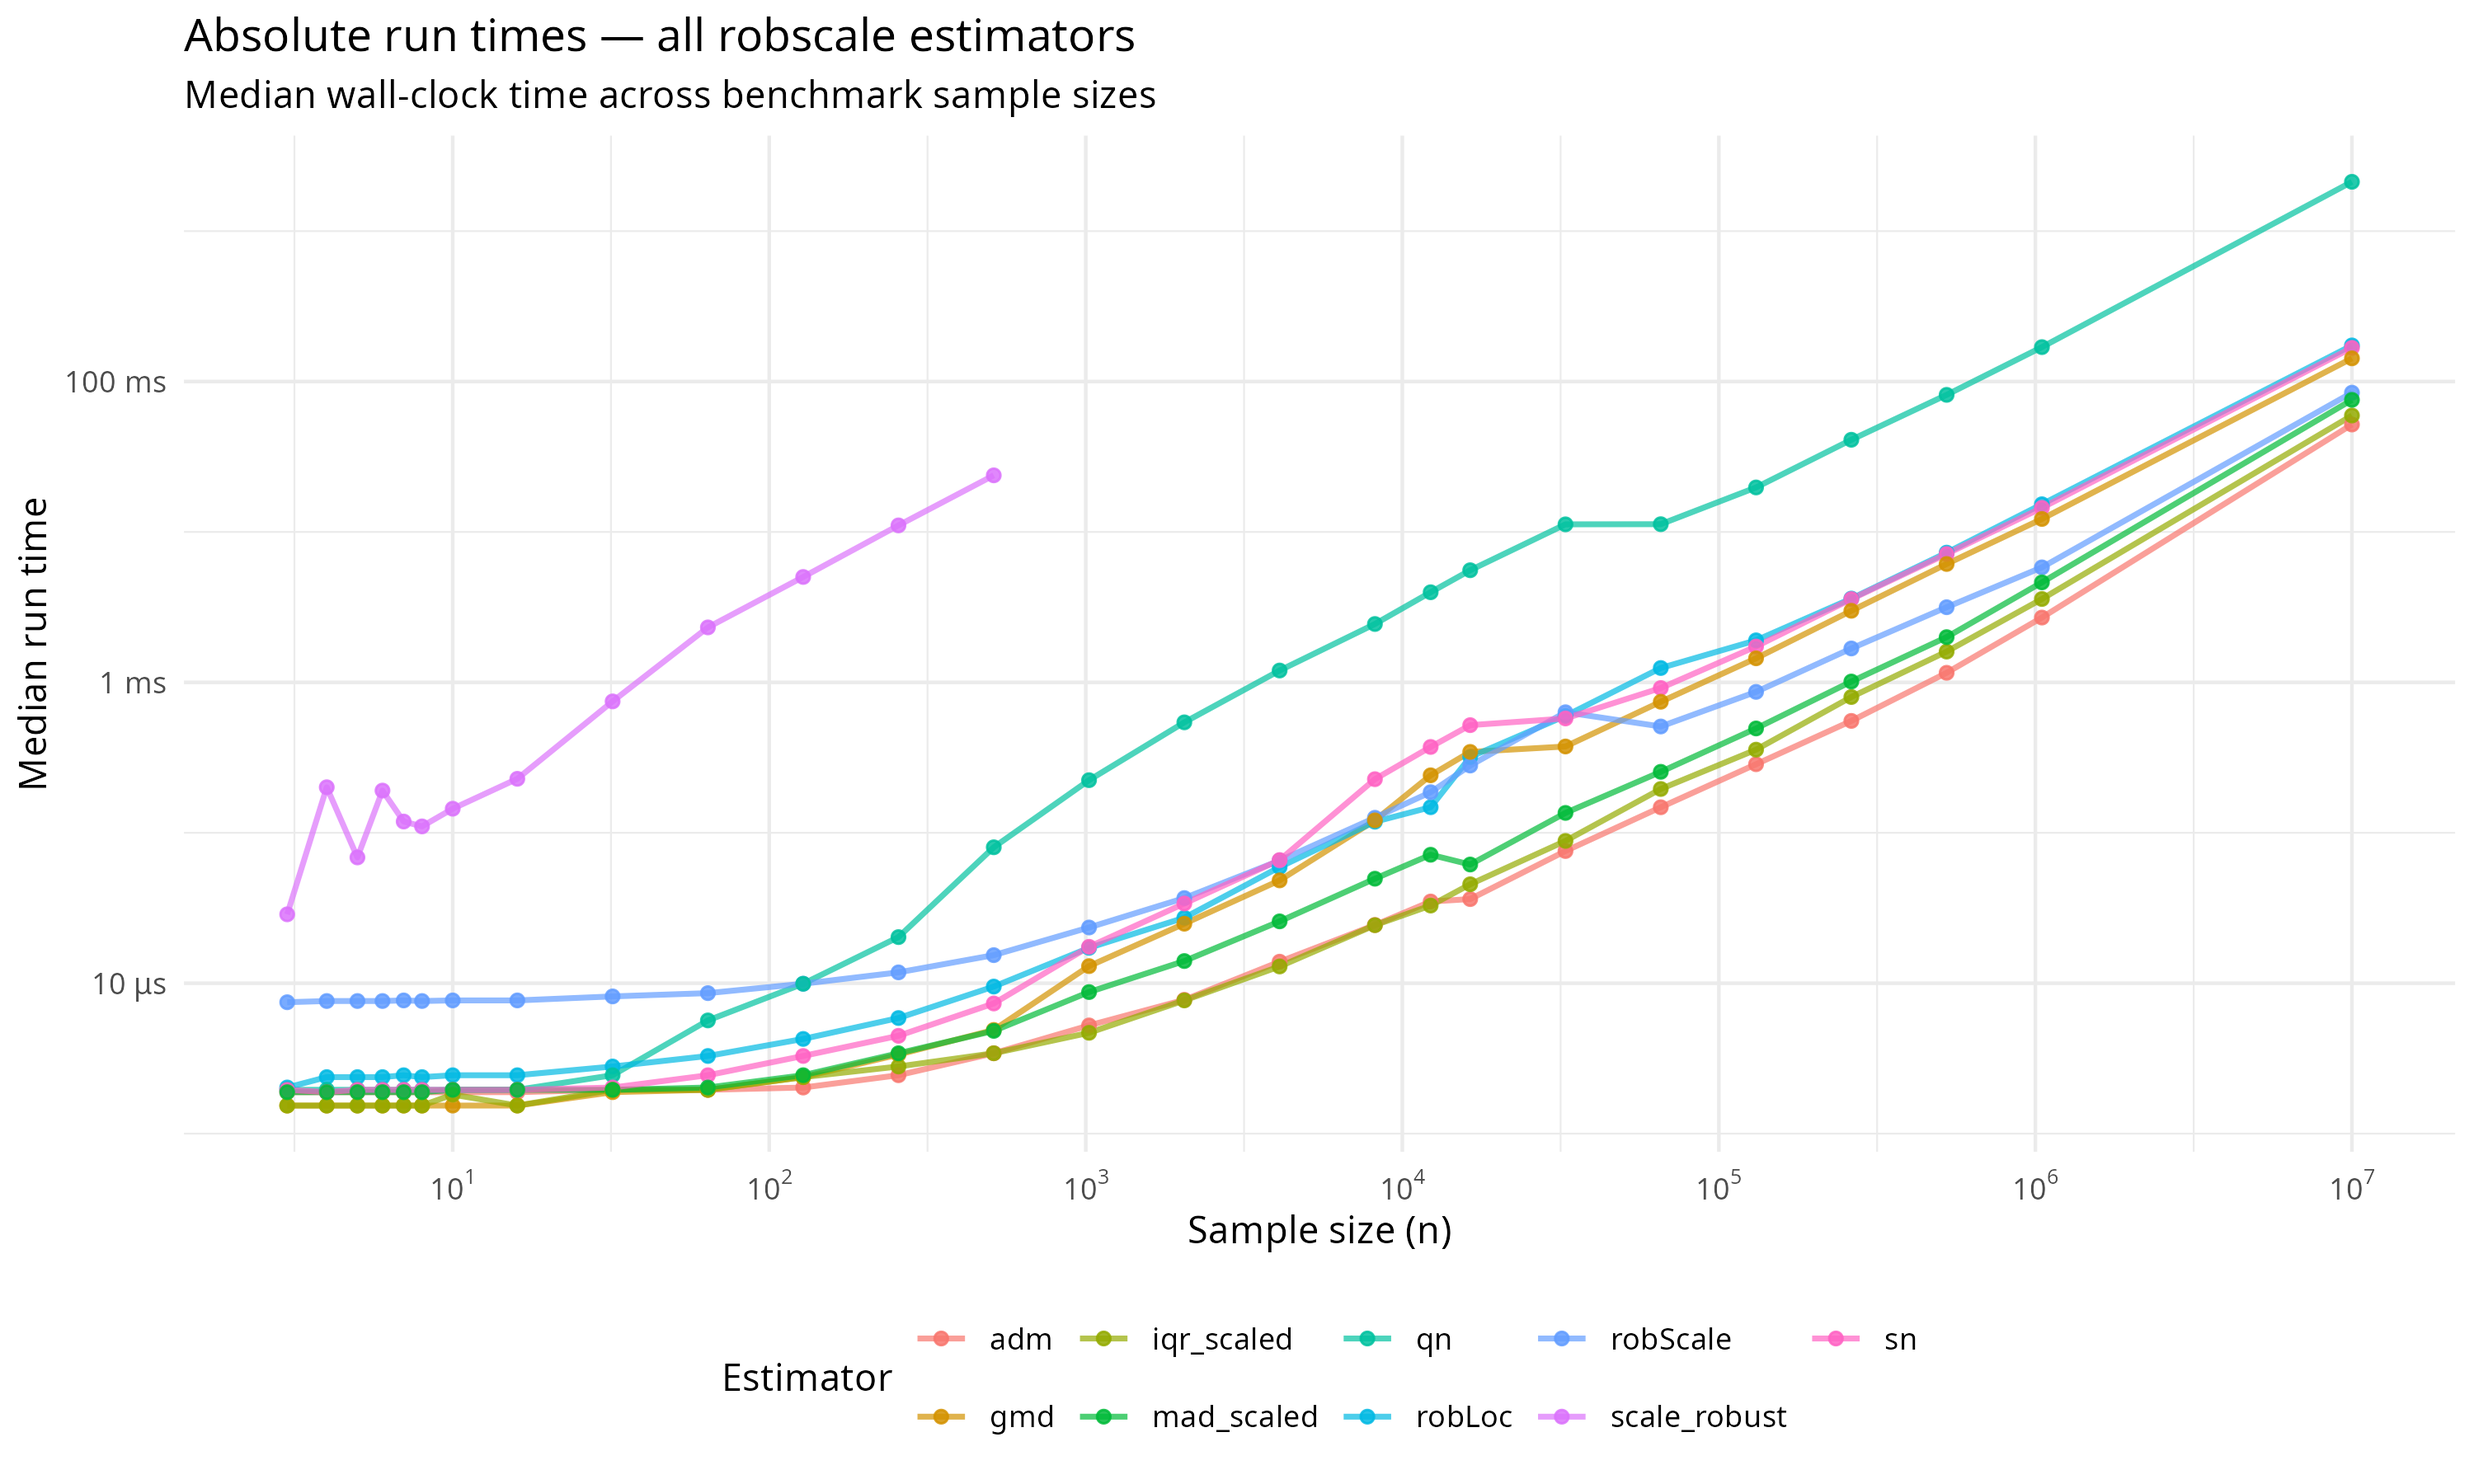
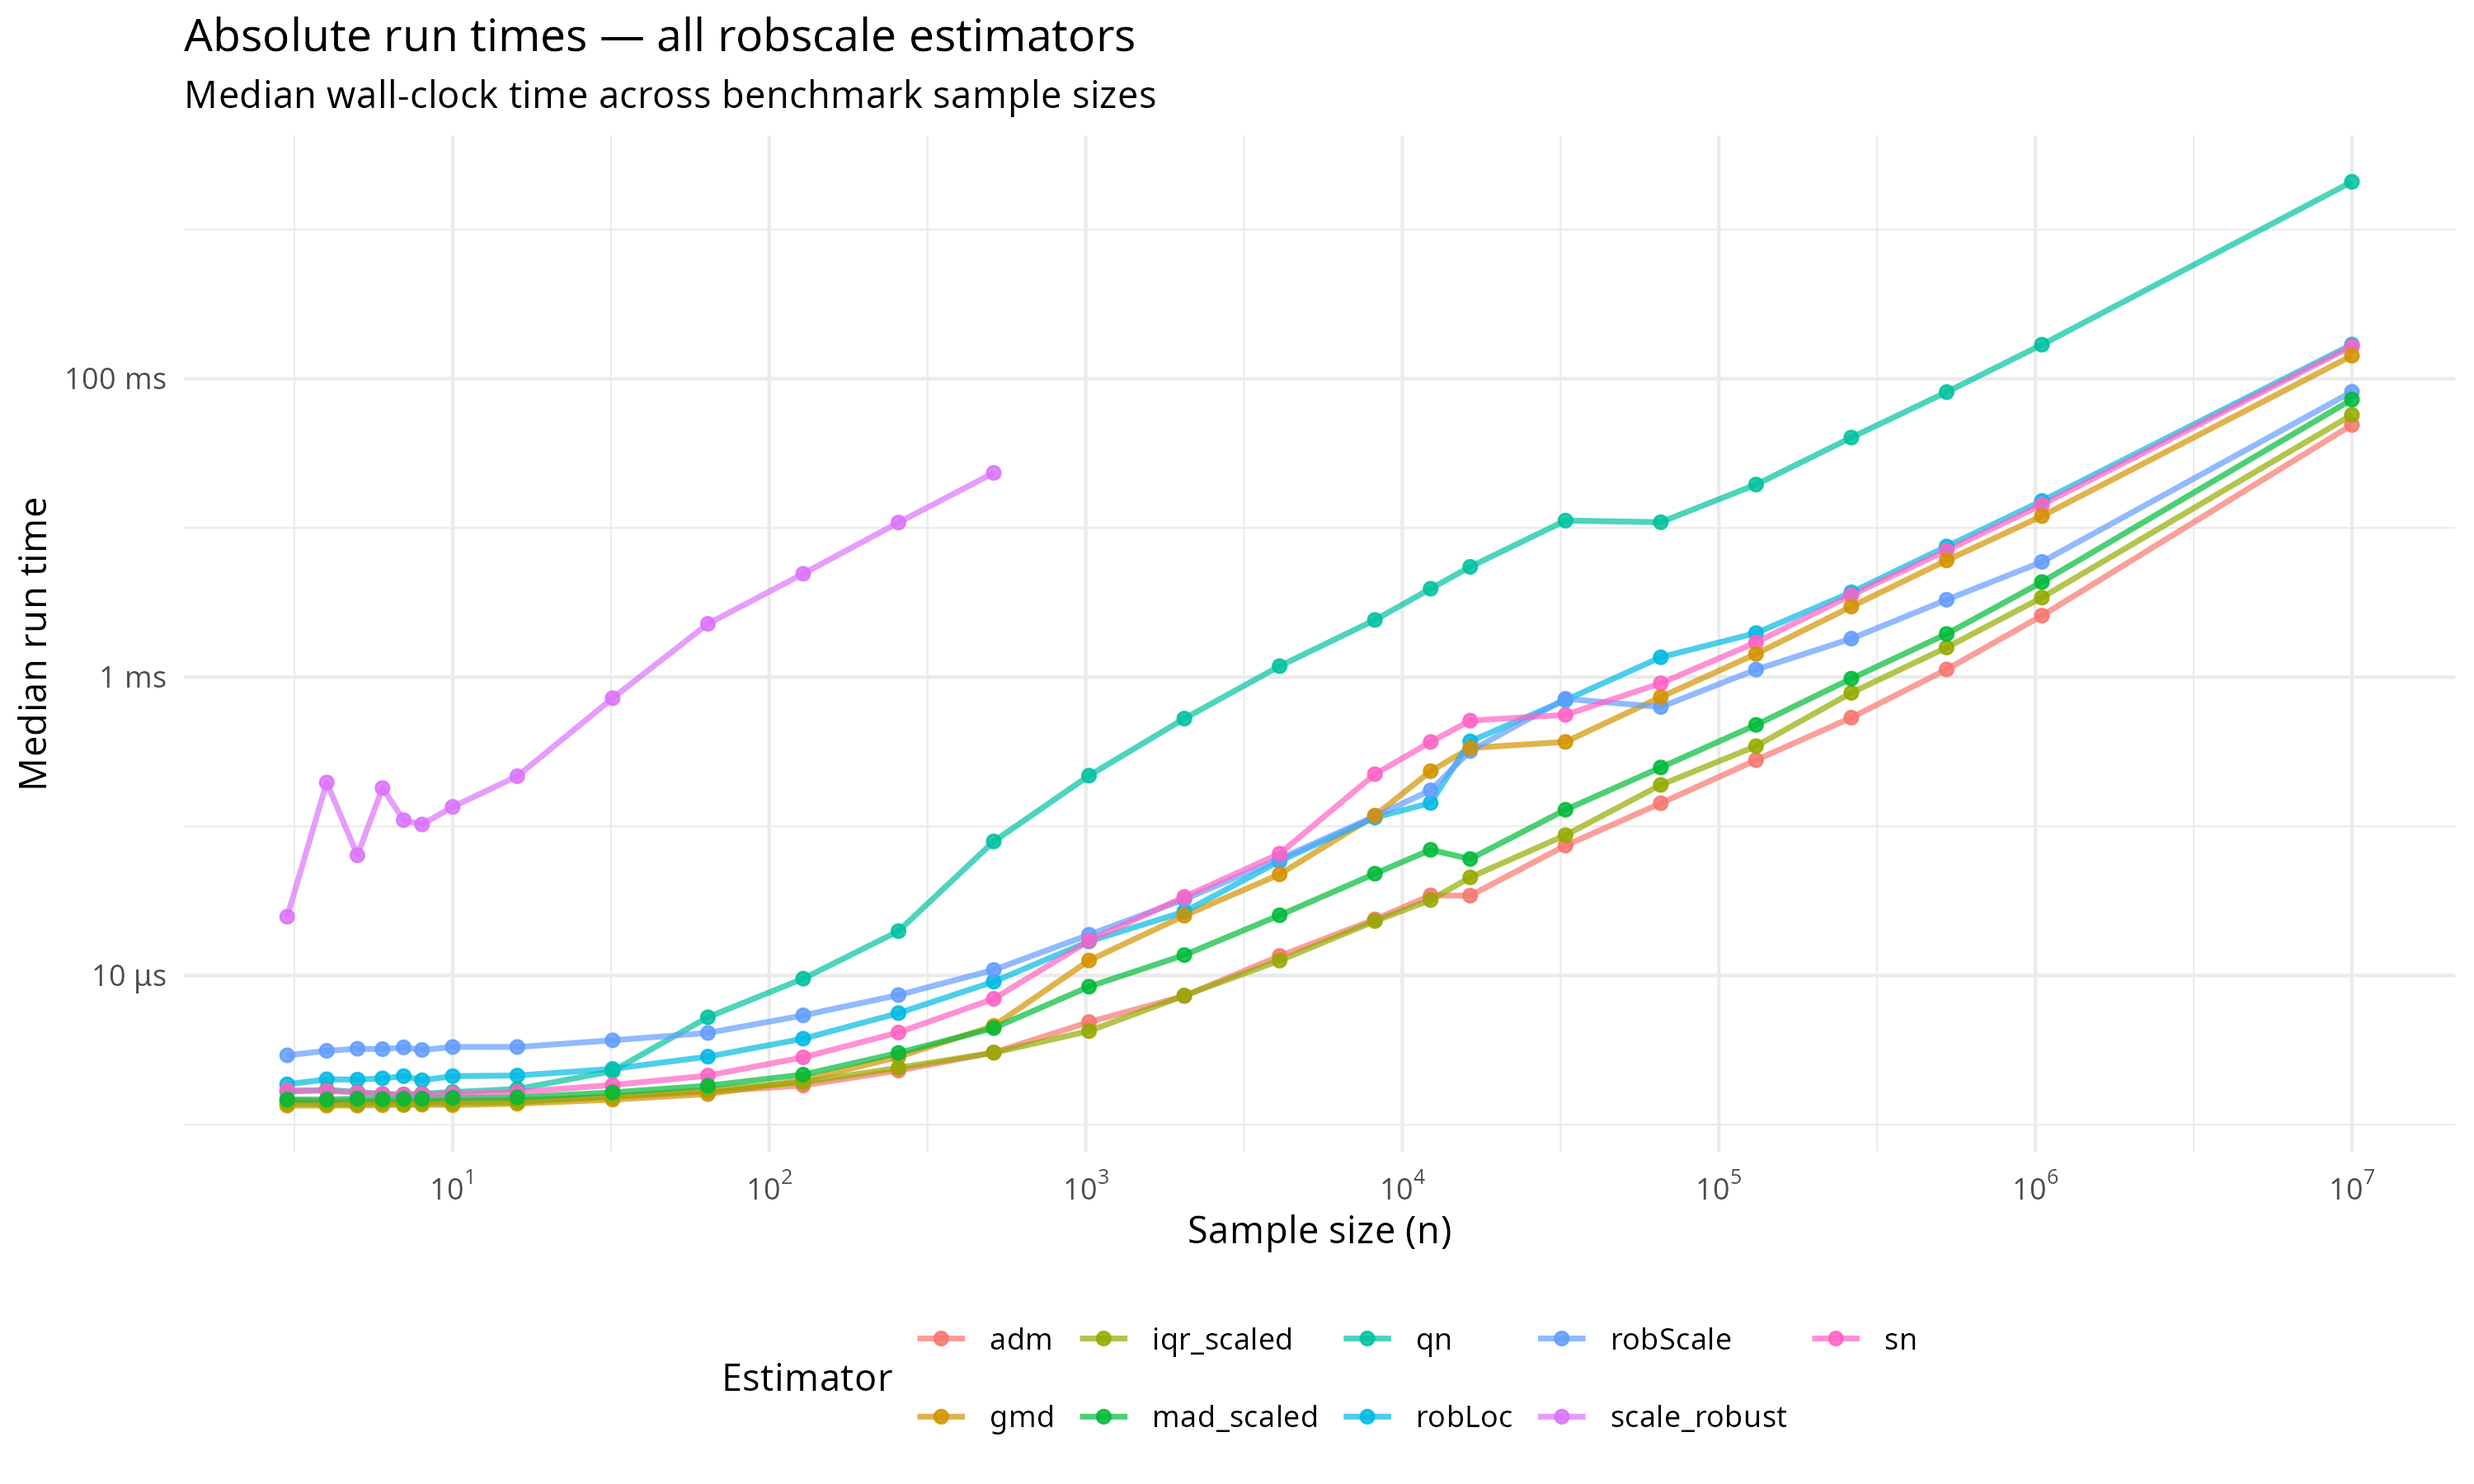
docs: render README with fresh benchmarks reflecting match.arg fix
Small-n speedups now 6.1x (was 5.0-5.4x) after eliminating 4.75µs
match.arg overhead. qn n=8: 1.6µs (was 2.0µs). robScale large-n
also improved: 10.9ms (was 11.3ms) at n=65536.

diff --git a/README.md b/README.md
@@ -17,13 +17,13 @@ variance-weighted bootstrap ensemble for small samples ($n < 20$) and
 auto-switches to the GMD for larger ones. `get_consistency_constant()`
 exposes the finite-sample bias-correction factors used throughout.
 
-Against `revss`, `robscale` achieves **1.6–1.9x** speedups for
-`robScale()` and **3.5–4.0x** for `robLoc()` at small $n$, with
-**1.4–7.0x** for `adm()` at $n \ge 128$. Against `robustbase`, `qn` and
-`sn` run at **1.6–5.5x** and **2.0–9.1x** respectively, peaking near
+Against `revss`, `robscale` achieves **3.8–4.5x** speedups for
+`robScale()` and **4.0–4.3x** for `robLoc()` at small $n$, with
+**1.6–7.1x** for `adm()` at $n \ge 128$. Against `robustbase`, `qn` and
+`sn` run at **1.7–6.1x** and **2.1–9.1x** respectively, peaking near
 **9.1x** at $n = 10^7$ as TBB parallelism engages. `gmd`, `iqr_scaled`,
-and `mad_scaled` beat their base R counterparts by **2.7–19.5x**,
-**2.9–33.9x**, and **4.1–20.7x** respectively.
+and `mad_scaled` beat their base R counterparts by **2.8–22.1x**,
+**2.9–37.8x**, and **4.2–26.3x** respectively.
 
 Speed comes from C++17 kernels with platform-specific SIMD
 vectorization, $O(n)$ selection algorithms, stack-allocated memory
@@ -535,14 +535,14 @@ of TBB parallelism at large $n$.
 
 ### M-estimators (`adm`, `robLoc`, `robScale`)
 
-`robScale()` and `robLoc()` reach **1.6–1.9x** and **3.5–4.0x** over
+`robScale()` and `robLoc()` reach **3.8–4.5x** and **4.0–4.3x** over
 `revss` in the small-sample regime ($n \le 20$). Newton–Raphson
 quadratic convergence (~3 iterations vs. 6–8), the fused single-pass
 AVX2 kernel, stack-allocated arenas, and optimal sorting networks for
 $n \le 16$ drive these gains. `adm()` matches `revss` at small $n$ (both
 ~1.5–2.0 µs, dominated by the R→C++ `.Call()` boundary) and leads by
-**1.4–7.0x** at $n \ge 128$ as computation overtakes boundary cost. At
-$n = 16{,}384$, all three NR estimators retain **3.3–5.1x** gains
+**1.6–7.1x** at $n \ge 128$ as computation overtakes boundary cost. At
+$n = 16{,}384$, all three NR estimators retain **2.8–5.3x** gains
 because `revss` interpreter overhead scales with iteration count, not
 just vector length.
 
@@ -554,12 +554,12 @@ Table 3
 
 |      $n$ | `robustbase::Qn` | `robscale::qn` | Speedup  |
 |---------:|:-----------------|:---------------|:---------|
-|        8 | 9.8 µs           | 2.0 µs         | **5.0x** |
-|       16 | 10.6 µs          | 2.0 µs         | **5.4x** |
-|       64 | 14.5 µs          | 5.7 µs         | **2.6x** |
-|     1024 | 451.9 µs         | 223.8 µs       | **2.0x** |
-|    65536 | 45969.5 µs       | 11262.6 µs     | **4.1x** |
-| 10000000 | 10.2 s           | 2.1 s          | **4.8x** |
+|        8 | 9.8 µs           | 1.6 µs         | **6.1x** |
+|       16 | 10.6 µs          | 1.7 µs         | **6.1x** |
+|       64 | 14.5 µs          | 5.3 µs         | **2.8x** |
+|     1024 | 451.9 µs         | 218.6 µs       | **2.1x** |
+|    65536 | 45969.5 µs       | 10924.3 µs     | **4.2x** |
+| 10000000 | 10.2 s           | 2.1 s          | **4.9x** |
 
 </div>
 
@@ -569,19 +569,19 @@ Table 4
 
 |      $n$ | `robustbase::Sn` | `robscale::sn` | Speedup  |
 |---------:|:-----------------|:---------------|:---------|
-|        8 | 4.4 µs           | 2.0 µs         | **2.3x** |
-|       16 | 4.9 µs           | 2.0 µs         | **2.5x** |
-|       64 | 6.1 µs           | 2.4 µs         | **2.5x** |
-|     1024 | 35.7 µs          | 17.5 µs        | **2.0x** |
-|    65536 | 6893.7 µs        | 916.9 µs       | **7.5x** |
-| 10000000 | 1.5 s            | 0.2 s          | **8.9x** |
+|        8 | 4.4 µs           | 1.6 µs         | **2.7x** |
+|       16 | 4.9 µs           | 1.7 µs         | **3.0x** |
+|       64 | 6.1 µs           | 2.1 µs         | **2.8x** |
+|     1024 | 35.7 µs          | 17.1 µs        | **2.1x** |
+|    65536 | 6893.7 µs        | 909.4 µs       | **7.5x** |
+| 10000000 | 1.5 s            | 0.2 s          | **9.1x** |
 
 </div>
 
-For small to medium $n$, `robscale` leads by **1.6–5.5x** for `qn` and
-**2.0–9.1x** for `sn`, primarily from eliminating R dispatch overhead
+For small to medium $n$, `robscale` leads by **1.7–6.1x** for `qn` and
+**2.1–9.1x** for `sn`, primarily from eliminating R dispatch overhead
 and using stack memory. At $n = 10^7$, `qn` runs in 2.1 s vs. 10.2 s
-(**4.8x**) and `sn` in 0.2 s vs. 1.5 s (**8.9x**), as TBB parallelism
+(**4.9x**) and `sn` in 0.2 s vs. 1.5 s (**9.1x**), as TBB parallelism
 scales across cores.
 
 ### Single-pass estimators (`gmd`, `iqr_scaled`, `mad_scaled`)
@@ -592,39 +592,39 @@ Table 5
 
 |      $n$ | Comparison             | Speedup   |
 |---------:|:-----------------------|:----------|
-|       64 | gmd vs GiniDistance    | **11.2x** |
-|       64 | gmd vs Hmisc           | **16.8x** |
-|       64 | iqr_scaled vs collapse | **4.1x**  |
-|       64 | iqr_scaled vs stats    | **27.0x** |
-|       64 | mad_scaled vs collapse | **4.9x**  |
-|       64 | mad_scaled vs stats    | **20.0x** |
-|     1024 | gmd vs GiniDistance    | **3.6x**  |
-|     1024 | gmd vs Hmisc           | **5.1x**  |
-|     1024 | iqr_scaled vs collapse | **2.4x**  |
-|     1024 | iqr_scaled vs stats    | **12.5x** |
+|       64 | gmd vs GiniDistance    | **13.6x** |
+|       64 | gmd vs Hmisc           | **20.5x** |
+|       64 | iqr_scaled vs collapse | **4.8x**  |
+|       64 | iqr_scaled vs stats    | **31.0x** |
+|       64 | mad_scaled vs collapse | **5.4x**  |
+|       64 | mad_scaled vs stats    | **22.2x** |
+|     1024 | gmd vs GiniDistance    | **3.7x**  |
+|     1024 | gmd vs Hmisc           | **5.3x**  |
+|     1024 | iqr_scaled vs collapse | **2.6x**  |
+|     1024 | iqr_scaled vs stats    | **13.8x** |
 |     1024 | mad_scaled vs collapse | **1.8x**  |
-|     1024 | mad_scaled vs stats    | **6.2x**  |
-|    65536 | gmd vs GiniDistance    | **3.1x**  |
+|     1024 | mad_scaled vs stats    | **6.4x**  |
+|    65536 | gmd vs GiniDistance    | **3.2x**  |
 |    65536 | gmd vs Hmisc           | **4.0x**  |
-|    65536 | iqr_scaled vs collapse | **4.3x**  |
-|    65536 | iqr_scaled vs stats    | **5.7x**  |
-|    65536 | mad_scaled vs collapse | **5.4x**  |
-|    65536 | mad_scaled vs stats    | **7.3x**  |
+|    65536 | iqr_scaled vs collapse | **4.4x**  |
+|    65536 | iqr_scaled vs stats    | **5.9x**  |
+|    65536 | mad_scaled vs collapse | **5.5x**  |
+|    65536 | mad_scaled vs stats    | **7.5x**  |
 | 10000000 | gmd vs GiniDistance    | **4.1x**  |
 | 10000000 | gmd vs Hmisc           | **5.7x**  |
-| 10000000 | iqr_scaled vs collapse | **2.4x**  |
+| 10000000 | iqr_scaled vs collapse | **2.5x**  |
 | 10000000 | iqr_scaled vs stats    | **2.9x**  |
-| 10000000 | mad_scaled vs collapse | **3.6x**  |
-| 10000000 | mad_scaled vs stats    | **4.7x**  |
+| 10000000 | mad_scaled vs collapse | **3.8x**  |
+| 10000000 | mad_scaled vs stats    | **4.9x**  |
 
 </div>
 
-`gmd` beats `Hmisc::GiniMd` by **2.7–19.5x** (C++ vs. pure R) and
-`GiniDistance::gmd` by **2.2–13.0x** (both compiled, with `robscale`’s
+`gmd` beats `Hmisc::GiniMd` by **2.8–22.1x** (C++ vs. pure R) and
+`GiniDistance::gmd` by **2.3–14.7x** (both compiled, with `robscale`’s
 edge from sorting networks). `iqr_scaled` leads `stats::IQR` by
-**2.9–33.9x** (dual $O(n)$ pdqselect vs. full sort) and
-`collapse::fquantile` by **1.4–5.0x**. `mad_scaled` leads `stats::mad`
-by **4.1–20.7x** and a `collapse::fmedian`-based MAD by **1.1–5.8x**
+**2.9–37.8x** (dual $O(n)$ pdqselect vs. full sort) and
+`collapse::fquantile` by **1.4–5.5x**. `mad_scaled` leads `stats::mad`
+by **4.2–26.3x** and a `collapse::fmedian`-based MAD by **1.1–6.5x**
 (adaptive $O(n)$ selection vs. sorting).
 
 > \[!NOTE\] **Source builds recommended.** Installing from source
